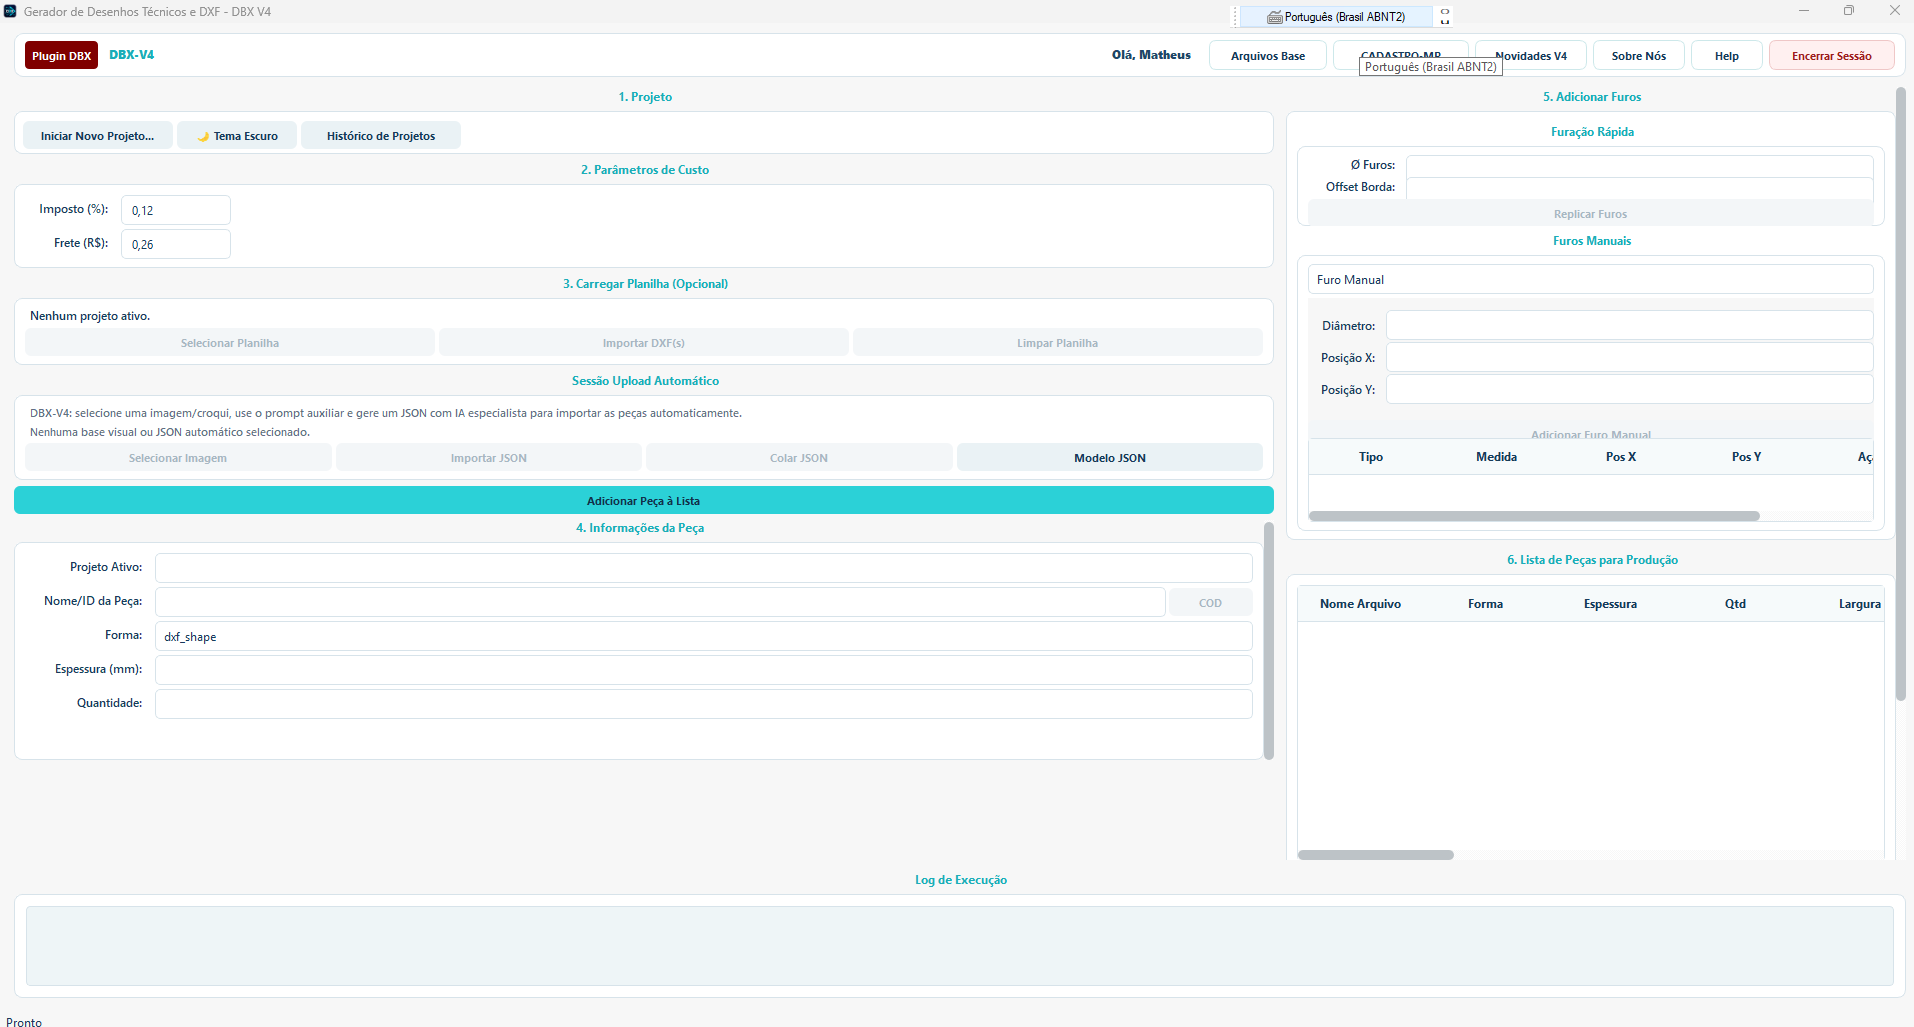
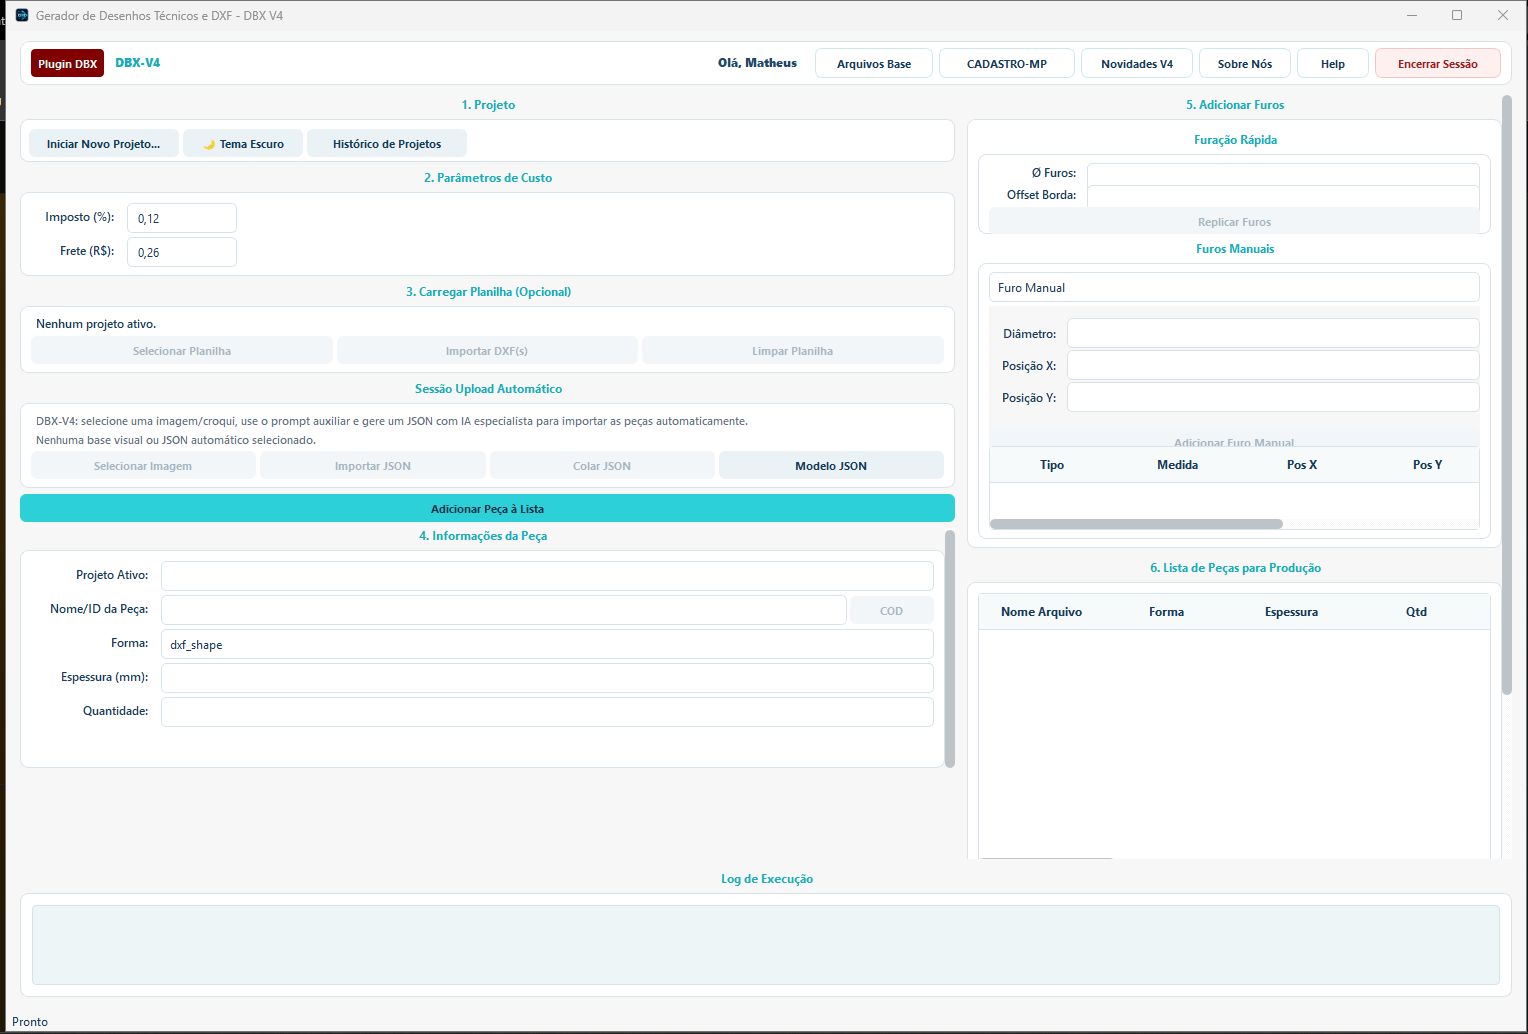
Versao Ok

diff --git a/src/data/projects.ts b/src/data/projects.ts
@@ -59,6 +59,7 @@ export const projects: Project[] = [
     ],
     links: [{ label: "Repositorio", href: "https://github.com/zuckalez0-oss/DBX-V2" }],
   },
+
   {
     slug: "promptmaster",
     title: "PromptMaster",
@@ -238,6 +239,66 @@ export const projects: Project[] = [
       { label: "Projeto online", href: "https://lypsyos.com" },
     ],
   },
+
+  {
+  slug: "dashboard-desenhos-orcamentos",
+  title: "Controle de Desenhos e Orçamentos",
+  summary: "Painel operacional conectado ao Google Sheets para gestão e acompanhamento de demandas de desenhos técnicos e orçamentos industriais.",
+  impact:
+    "Transforma planilhas operacionais em uma interface visual fluida, permitindo acompanhar o status de projetos e métricas em tempo real sem atrito.",
+  tagline: "Gestão visual e simplificada de demandas de engenharia integradas via planilha.",
+  period: "Projeto autoral (Versão 2.0.0)",
+  role: "Desenvolvimento UI/UX e Integração",
+  status: "Em produção",
+  imageUrl: "/images/projects/controle-de-desenhos.png",
+  gallery: [
+    {
+      src: "/images/projects/controle-de-desenhos.png",
+      alt: "Tela do dashboard Controle de Desenhos e Orçamentos, exibindo métricas diárias, filtros avançados e tabela de registros conectada ao Google Sheets.",
+    },
+  ],
+  techStack: ["JavaScript/TypeScript", "Google Sheets API", "Frontend Web"],
+  highlights: [
+    { label: "Foco", value: "Gestão de demandas operacionais" },
+    { label: "Stack", value: "Web UI + Google Sheets" },
+    { label: "Valor", value: "Controle visual e filtros em tempo real" },
+  ],
+  challenge: [
+    "Criar uma interface ágil e moderna para o controle de projetos de corte a laser e plasma, sem forçar a equipe a abandonar a base de dados legada em planilhas.",
+    "Garantir que a leitura de dados suporte métricas instantâneas (pendentes, concluídos) e filtros complexos (por status, vendedor, desenhista) em uma única tela.",
+  ],
+  solution: [
+    "Desenvolvimento de um painel web consumindo os dados diretamente do Google Sheets, atuando como um front-end dinâmico e otimizado.",
+    "Implementação de cards indicadores para a entrada do dia e uma tabela interativa que permite focar apenas nas solicitações que exigem ação imediata.",
+  ],
+  outcomes: [
+    "Aceleração drástica na consulta de status de projetos industriais e orçamentos.",
+    "Experiência de usuário (UX) muito superior à navegação direta em células, mantendo a simplicidade da manutenção dos dados na planilha original.",
+  ],
+  sections: [
+    {
+      title: "Contexto",
+      content: [
+        "Para organizar o fluxo do setor de engenharia e orçamentos, foi necessário evoluir o acompanhamento tático das demandas. A equipe precisava de clareza imediata sobre o que estava pendente, concluído ou aguardando link de pasta.",
+        "Como a operação já domina o Google Sheets para registros, a solução ideal foi construir um dashboard sobre essa infraestrutura. Ele consome os dados e entrega uma visão corporativa e limpa para o dia a dia.",
+      ],
+    },
+    {
+      title: "Decisões técnicas",
+      content: [
+        "A arquitetura foi pensada para separar completamente a visualização da persistência. O front-end lida com a reatividade, paginação e filtros cruzados (processo, status, cidade, gerente), enquanto o Google Sheets serve como um banco de dados acessível.",
+        "O design inclui feedback visual rápido (tags de status, ícones) e um modal lateral de detalhes, garantindo que o usuário tenha o panorama geral e as informações específicas de cada projeto na mesma tela.",
+      ],
+    },
+  ],
+  testSteps: [
+    "Configurar as credenciais da API e o ID da planilha do Google Sheets no ambiente do projeto.",
+    "Iniciar o servidor de desenvolvimento do painel web.",
+    "Validar a renderização dos cards (Solicitações hoje, Pendentes, Prontos) de acordo com os dados inseridos na planilha.",
+    "Aplicar filtros no cabeçalho (ex: Filtrar por 'Apenas orçamento') e verificar a resposta e o detalhamento no painel lateral.",
+  ],
+  links: [],
+},
 ];
 
 export function getProjects() {